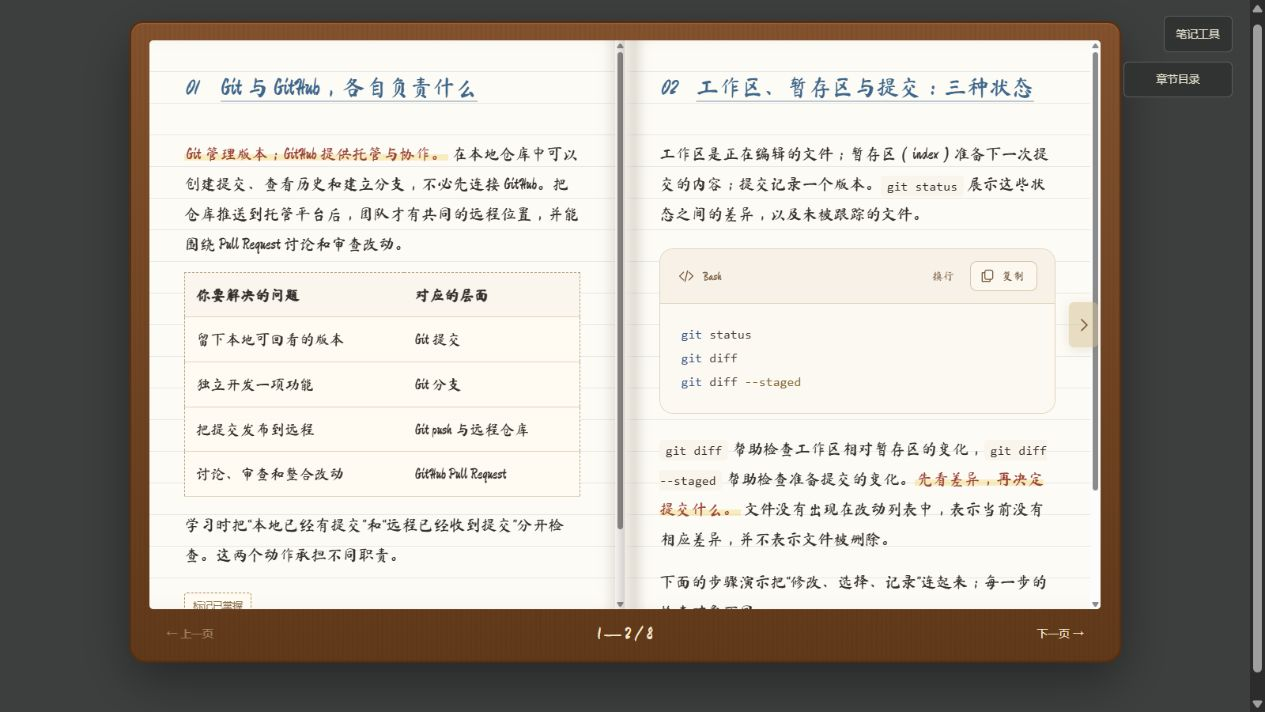
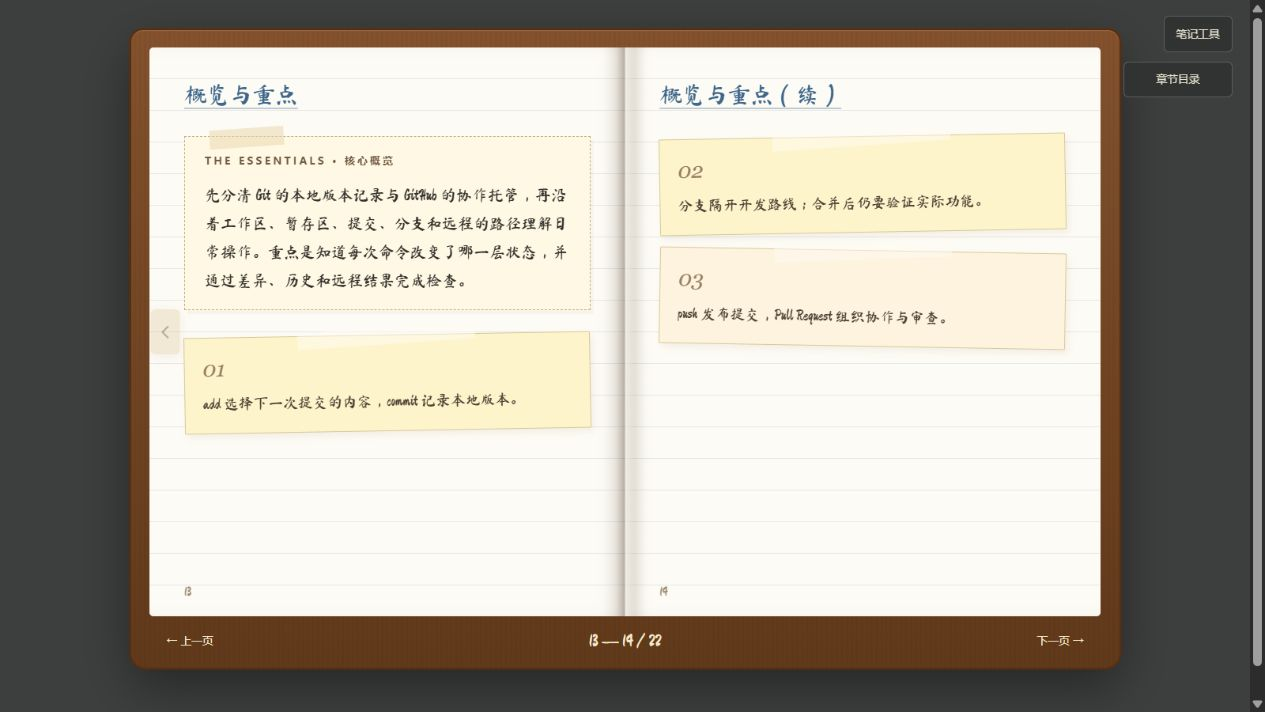
Fix book turn faces and paginate long notebook content

diff --git a/skill/assets/experiences.js b/skill/assets/experiences.js
@@ -13,24 +13,36 @@ mastered=new Set(loadPreference(learningKey,[]).filter(index=>Number.isInteger(i
 const notePanel=document.getElementById('notes'),bookSpread=document.createElement('div');bookSpread.className='book-spread';bookSpread.setAttribute('role','region');bookSpread.setAttribute('aria-label','左右双页笔记书');
 const overviewHome=document.createComment('overview home');overview.before(overviewHome);
 const bookExtra=Array.from(notePanel.children).filter(element=>element.classList.contains('study-widgets')||element.classList.contains('source-list'));
-const bookHomes=[...chapters,...bookExtra].map(element=>{const marker=document.createComment('book content home');element.before(marker);return [element,marker]});
-const appendix=document.createElement('section');appendix.className='book-page book-appendix';appendix.id='book-page-'+(chapters.length+1);const appendixTitle=document.createElement('h2');appendixTitle.textContent='复习与资料';appendix.append(appendixTitle);
-const bookPages=[...chapters,appendix];let summaryPage=appendix;
-if(bookPages.length%2){summaryPage=document.createElement('section');summaryPage.className='book-page book-summary';summaryPage.id='book-page-'+(chapters.length+2);const heading=document.createElement('h2');heading.textContent='本册概览';summaryPage.append(heading);bookPages.push(summaryPage)}
-bookPages.forEach((page,index)=>{page.classList.add('book-page');page.dataset.bookPage=String(index+1);const number=document.createElement('span');number.className='book-page-number';number.textContent=String(index+1);page.append(number)});
+const masteryButtons=[];let bookPages=[],pagination=null,openedBookDetails=[],paginationFrame=0,bookLayoutKey='';
 const bookEdges=['previous','next'].map(direction=>{const button=document.createElement('button');button.type='button';button.className='book-edge book-edge-'+direction;button.setAttribute('aria-label',direction==='next'?'翻到下一组页面':'翻到上一组页面');button.innerHTML='<span class="book-edge-arrow" aria-hidden="true"><svg viewBox="0 0 24 24" fill="none"><path d="'+(direction==='next'?'m9 5 7 7-7 7':'m15 5-7 7 7 7')+'"/></svg></span>';button.addEventListener('click',()=>turnBook(direction==='next'?1:-1));return button});
 let bookMounted=false,overviewBeforeBook=false,bookAnimation=null,bookLayers=[];
 function pagesPerSpread(){return matchMedia('(max-width:700px)').matches?1:2}
 function bookRange(index){const size=pagesPerSpread(),start=Math.floor(index/size)*size;return {start,end:Math.min(start+size,bookPages.length),size}}
-function getFolioReadingChapter(){return Math.max(0,Math.min(folioIndex,chapters.length-1))}
+function getFolioReadingChapter(){return Math.max(0,Math.min(Number(bookPages[folioIndex]?.dataset.chapter)||0,chapters.length-1))}
 function stopBookAnimation(){if(bookAnimation){bookAnimation.cancel();bookAnimation=null}bookLayers.forEach(layer=>layer.remove());bookLayers=[];bookSpread.removeAttribute('aria-busy')}
+function bindBookMath(root){root.querySelectorAll('.arithmatex[data-latex]').forEach(element=>{if(element.dataset.copyBound)return;element.dataset.copyBound='true';element.addEventListener('click',()=>copyFormula(element));element.addEventListener('keydown',event=>{if(event.key==='Enter'||event.key===' '){event.preventDefault();copyFormula(element)}})})}
+function bookDocuments(){
+ const documents=chapters.map((chapter,index)=>({chapter:index,header:chapter.querySelector('header'),sources:Array.from(chapter.children).filter(element=>!element.matches('header,.mastery-button')),footer:masteryButtons[index]}));
+ const last=Math.max(0,chapters.length-1);
+ if(introPieces.length){const heading=document.createElement('h2');heading.textContent='概览与重点';documents.push({chapter:last,header:heading,sources:introPieces})}
+ if(bookExtra.length){const heading=document.createElement('h2');heading.textContent='复习与资料';documents.push({chapter:last,header:heading,sources:bookExtra})}
+ return documents;
+}
+function rebuildBook(){
+ if(!bookMounted||document.body.dataset.view!=='notes'||!bookSpread.clientHeight)return;stopBookAnimation();
+ const anchor=pagination?.starts[folioIndex],focus=getFolioReadingChapter();if(pagination)pagination.restore();bookSpread.replaceChildren();bookPages=[];
+ pagination=paginateNotebookBook(bookSpread,bookDocuments(),{reflow:scheduleBookPagination,bindMath:bindBookMath});bookPages=pagination.pages;
+ if(bookPages.length%2){const page=document.createElement('section');page.className='book-page';page.id='book-page-'+(bookPages.length+1);page.dataset.chapter=String(focus);const body=document.createElement('div');body.className='book-page-body';const title=document.createElement('h2');title.textContent=document.querySelector('h1').textContent;const meta=document.createElement('p');meta.className='book-source-description';meta.textContent=document.querySelector('.meta').textContent;body.append(title,meta);const list=document.createElement('ul');Array.from(new Set([0,Math.floor(chapters.length/2),chapters.length-1])).filter(index=>chapters[index]).forEach(index=>{const item=document.createElement('li'),link=document.createElement('a');link.href='#'+chapters[index].id;link.textContent=chapters[index].querySelector('h2').textContent;link.addEventListener('click',event=>{event.preventDefault();goToChapter(index)});item.append(link);list.append(item)});body.append(list);const footer=document.createElement('footer');footer.className='book-page-footer';footer.textContent=String(bookPages.length+1);page.append(body,footer);bookSpread.append(page);bookPages.push(page)}
+ bookSpread.append(...bookEdges);bookLayoutKey=bookSpread.clientWidth+'x'+bookSpread.clientHeight;
+ let target=pagination.chapterPages.get(focus)||0;if(anchor){pagination.starts.forEach((start,index)=>{if(start&&start.node===anchor.node&&start.offset<=anchor.offset)target=index})}
+ selectBookPage(target,false);currentChapter=-1;queueReading();
+}
+function scheduleBookPagination(){if(!paginationFrame)paginationFrame=requestAnimationFrame(()=>{paginationFrame=0;rebuildBook()})}
 function mountBook(){
- if(bookMounted)return;overviewBeforeBook=overview.open;overview.hidden=false;overview.open=true;summaryPage.append(overview);bookExtra.forEach(element=>appendix.append(element));
- if(!bookExtra.length&&!appendix.querySelector('.book-source-description')){const description=document.createElement('p');description.className='book-source-description';description.textContent=document.querySelector('.meta').textContent;appendix.append(description)}
- bookPages.forEach(page=>page.append(page.querySelector('.book-page-number')));notePanel.prepend(bookSpread);bookSpread.append(...bookPages,...bookEdges);bookMounted=true;
+ if(bookMounted)return;overviewBeforeBook=overview.open;openedBookDetails=bookExtra.flatMap(root=>Array.from(root.querySelectorAll('details'))).map(item=>[item,item.open]);openedBookDetails.forEach(([item])=>{item.open=true});notePanel.prepend(bookSpread);bookMounted=true;rebuildBook();
 }
 function unmountBook(){
- if(!bookMounted)return;stopBookAnimation();bookHomes.forEach(([element,marker])=>marker.after(element));overviewHome.after(overview);overview.open=overviewBeforeBook;bookSpread.remove();bookMounted=false;
+ if(!bookMounted)return;stopBookAnimation();if(pagination)pagination.restore();bookSpread.replaceChildren();overviewHome.after(overview);overview.open=overviewBeforeBook;openedBookDetails.forEach(([item,open])=>{item.open=open});bookSpread.remove();bookPages=[];pagination=null;bookMounted=false;
 }
 function updateBookControls(){
  const range=bookRange(folioIndex),busy=!!bookAnimation,last=range.end>=bookPages.length;
@@ -46,16 +58,17 @@ function animateBookTurn(previousRange,nextRange){
  const oldCopy=pageSnapshot(turning),newCopy=pageSnapshot(reveal);front.append(oldCopy);back.append(newCopy);layer.append(front,back);bookSpread.append(layer);oldCopy.scrollTop=turning.scrollTop;newCopy.scrollTop=reveal.scrollTop;bookLayers.push(layer);
  if(previousRange.size===2){const held=bookPages[forward?previousRange.start:previousRange.end-1],hold=document.createElement('div');hold.className='book-held-page '+(forward?'book-held-left':'book-held-right');hold.setAttribute('aria-hidden','true');hold.setAttribute('inert','');const copy=pageSnapshot(held);hold.append(copy);bookSpread.append(hold);copy.scrollTop=held.scrollTop;bookLayers.push(hold)}
  const duration=previousRange.size===2?720:420,end=previousRange.size===2?(forward?-180:180):(forward?-100:100);
- bookAnimation=layer.animate([{transform:'rotateY(0deg)',filter:'brightness(1)',offset:0},{transform:'rotateY('+(end*.48)+'deg)',filter:'brightness(.82)',offset:.48},{transform:'rotateY('+end+'deg)',filter:'brightness(1)',offset:1}],{duration,easing:'cubic-bezier(.35,.05,.2,1)',fill:'forwards'});
+ bookAnimation=layer.animate([{transform:'rotateY(0deg)',offset:0},{transform:'rotateY('+(end*.48)+'deg)',offset:.48},{transform:'rotateY('+end+'deg)',offset:1}],{duration,easing:'cubic-bezier(.35,.05,.2,1)',fill:'forwards'});
  bookSpread.setAttribute('aria-busy','true');updateBookControls();const running=bookAnimation;running.finished.then(()=>{if(bookAnimation===running){stopBookAnimation();updateBookControls()}},()=>{});
 }
 function updateMastery(){
  const percent=chapters.length?Math.round(mastered.size/chapters.length*100):0;
  document.getElementById('mastery-percent').textContent=percent+'%';document.querySelector('.mastery-orbit').style.setProperty('--mastery',percent+'%');document.getElementById('mastery-count').textContent='已掌握 '+mastered.size+' / '+chapters.length+' 章';document.getElementById('mastery-progress').value=mastered.size;
- chapters.forEach((chapter,index)=>{const button=chapter.querySelector('.mastery-button');button.setAttribute('aria-pressed',String(mastered.has(index)));button.textContent=mastered.has(index)?'已掌握 · 点击撤销':'标记已掌握';routeCards[index].classList.toggle('is-mastered',mastered.has(index))});
+ chapters.forEach((chapter,index)=>{const button=masteryButtons[index];button.setAttribute('aria-pressed',String(mastered.has(index)));button.textContent=mastered.has(index)?'已掌握 · 点击撤销':'标记已掌握';routeCards[index].classList.toggle('is-mastered',mastered.has(index))});
 }
-chapters.forEach((chapter,index)=>{const button=document.createElement('button');button.type='button';button.className='mastery-button';button.setAttribute('aria-label','切换掌握状态：'+chapter.querySelector('h2').textContent);button.addEventListener('click',()=>{mastered.has(index)?mastered.delete(index):mastered.add(index);savePreference(learningKey,Array.from(mastered));updateMastery()});chapter.append(button)});
-function selectFolioChapter(index,animate=true){
+chapters.forEach((chapter,index)=>{const button=document.createElement('button');button.type='button';button.className='mastery-button';button.setAttribute('aria-label','切换掌握状态：'+chapter.querySelector('h2').textContent);button.addEventListener('click',()=>{mastered.has(index)?mastered.delete(index):mastered.add(index);savePreference(learningKey,Array.from(mastered));updateMastery()});chapter.append(button);masteryButtons.push(button)});
+function selectFolioChapter(index,animate=true){selectBookPage(pagination?.chapterPages.get(index)||0,animate)}
+function selectBookPage(index,animate=true){
  const previousRange=bookRange(folioIndex),target=Math.max(0,Math.min(bookPages.length-1,index)),nextRange=bookRange(target),changed=previousRange.start!==nextRange.start;
  stopBookAnimation();folioIndex=target;document.body.dataset.bookLayout=nextRange.size===2?'spread':'single';
  if(animate&&changed&&bookMounted&&document.body.dataset.view==='notes'&&!matchMedia('(prefers-reduced-motion: reduce)').matches)animateBookTurn(previousRange,nextRange);
@@ -64,15 +77,15 @@ function selectFolioChapter(index,animate=true){
 }
 function turnBook(direction){
  if(bookAnimation)return;const range=bookRange(folioIndex),target=direction>0?range.end:range.start-range.size;if(target<0||target>=bookPages.length)return;
- if(target<chapters.length)goToChapter(target,false);else{selectFolioChapter(target);history.replaceState(null,'','#'+bookPages[target].id);currentChapter=-1;queueReading()}
+ selectBookPage(target);history.replaceState(null,'','#'+bookPages[target].id);currentChapter=-1;queueReading();
 }
 function applyReadingStyle(style){
  if(!['paper','atlas','folio'].includes(style))style='paper';document.body.dataset.style=style;stylePicker.value=style;
- if(style!=='folio'){unmountBook();bookPages.forEach(page=>page.removeAttribute('aria-hidden'))}
+ if(bookMounted)unmountBook();
  if(style==='paper'){tabsHome.insertBefore(formatTabs,tabsNext);introPieces.forEach(piece=>overview.before(piece));overview.hidden=true}else{document.getElementById('reader-tools').append(formatTabs);introPieces.forEach(piece=>overview.append(piece));overview.hidden=false}
  closeNotebookTools();
  document.querySelector('.hub-heading .label').textContent=style==='folio'?'MY STUDY JOURNAL':'MY STUDY NOTES';document.querySelector('.hub-heading h2').textContent=style==='folio'?'翻开这一页，继续理解。':'把重点写在纸上。';document.querySelector('.hub-heading p').textContent=style==='folio'?'从目录选一章，或用左右键继续阅读。':chapters.length+' 个章节，保留完整学习内容。';
- if(style==='folio'){mountBook();const index=bookPages.findIndex(page=>'#'+page.id===location.hash);selectFolioChapter(index>=0?index:Math.max(0,currentChapter),false);window.scrollTo({top:0,behavior:'auto'})}
+ if(style==='folio'){mountBook();const index=bookPages.findIndex(page=>'#'+page.id===location.hash),chapter=chapters.findIndex(page=>'#'+page.id===location.hash);if(index>=0)selectBookPage(index,false);else selectFolioChapter(chapter>=0?chapter:Math.max(0,currentChapter),false);window.scrollTo({top:0,behavior:'auto'})}
  currentChapter=-1;queueReading();requestAnimationFrame(updateIndicator);
 }
 stylePicker.addEventListener('change',()=>{applyReadingStyle(stylePicker.value);savePreference(styleKey,stylePicker.value)});
@@ -81,13 +94,13 @@ document.addEventListener('seagull:position',event=>{routeCards.forEach((card,in
 routeCards.forEach((card,index)=>card.addEventListener('click',()=>{activate(document.getElementById('tab-notes'));goToChapter(index)}));
 document.querySelector('[data-folio=previous]').addEventListener('click',()=>turnBook(-1));document.querySelector('[data-folio=next]').addEventListener('click',()=>turnBook(1));
 document.addEventListener('keydown',event=>{if(event.defaultPrevented||event.altKey||event.ctrlKey||event.metaKey||document.body.dataset.style!=='folio'||document.body.dataset.view!=='notes'||event.target.closest('input,textarea,select,pre,dialog,[role=tab]'))return;if(['ArrowLeft','ArrowRight'].includes(event.key)){event.preventDefault();turnBook(event.key==='ArrowRight'?1:-1)}});
-window.addEventListener('resize',()=>{if(bookMounted){selectFolioChapter(folioIndex,false);currentChapter=-1;queueReading()}});document.addEventListener('seagull:view',()=>{stopBookAnimation();if(bookMounted)updateBookControls()});
+new ResizeObserver(()=>{if(bookMounted&&bookSpread.clientHeight&&bookLayoutKey!==bookSpread.clientWidth+'x'+bookSpread.clientHeight)scheduleBookPagination()}).observe(bookSpread);document.fonts.ready.then(()=>{if(bookMounted)scheduleBookPagination()});document.querySelectorAll('#notes img').forEach(image=>image.addEventListener('load',()=>{if(bookMounted)scheduleBookPagination()}));document.addEventListener('click',event=>{if(bookMounted&&event.target.closest('.wrap-code'))scheduleBookPagination()});document.addEventListener('seagull:view',()=>{stopBookAnimation();if(bookMounted&&document.body.dataset.view==='notes')scheduleBookPagination()});
 applyReadingStyle(loadPreference(styleKey,document.body.dataset.style));updateMastery();
 const chapterReveal=new IntersectionObserver(entries=>entries.forEach(entry=>{if(entry.isIntersecting){entry.target.classList.add('is-visible');chapterReveal.unobserve(entry.target)}}),{threshold:.08});chapters.forEach(chapter=>chapterReveal.observe(chapter));
 document.querySelectorAll('.explorer').forEach(explorer=>{
  const buttons=Array.from(explorer.querySelectorAll('[data-step]')),panels=Array.from(explorer.querySelectorAll('.explore-panel')),play=explorer.querySelector('.explore-play');let selected=0,timer=null;
  function stop(){clearInterval(timer);timer=null;play.textContent='自动演示';play.setAttribute('aria-pressed','false')}
- function select(index){selected=(index+buttons.length)%buttons.length;buttons.forEach((button,position)=>{button.setAttribute('aria-selected',String(position===selected));button.tabIndex=position===selected?0:-1});panels.forEach((panel,position)=>{panel.hidden=position!==selected});explorer.querySelector('progress').value=selected+1}
+ function select(index){selected=(index+buttons.length)%buttons.length;buttons.forEach((button,position)=>{button.setAttribute('aria-selected',String(position===selected));button.tabIndex=position===selected?0:-1});panels.forEach((panel,position)=>{panel.hidden=position!==selected});explorer.querySelector('progress').value=selected+1;if(bookMounted)scheduleBookPagination()}
  buttons.forEach((button,index)=>{button.addEventListener('click',()=>{stop();select(index)});button.addEventListener('keydown',event=>{if(['ArrowLeft','ArrowRight','Home','End'].includes(event.key)){event.preventDefault();stop();select(event.key==='Home'?0:event.key==='End'?buttons.length-1:index+(event.key==='ArrowRight'?1:-1));buttons[selected].focus()}})});
  play.addEventListener('click',()=>{if(timer){stop();return}play.textContent='暂停演示';play.setAttribute('aria-pressed','true');timer=setInterval(()=>{select(selected+1);if(selected===buttons.length-1)stop()},1800)});
  document.addEventListener('seagull:view',event=>{if(event.detail!=='notes')stop()});document.addEventListener('visibilitychange',()=>{if(document.hidden)stop()});

diff --git a/skill/assets/book-pagination.js b/skill/assets/book-pagination.js
@@ -1,0 +1,114 @@
+// Move original note blocks into measured pages; restore them when leaving the book.
+function paginateNotebookBook(spread,documents,options){
+ const pages=[],homes=[],paragraphs=[],chapterPages=new Map(),starts=[],moved=new Set(),imageHeights=new Map();let current=null,contexts=new Map();
+ const width=spread.clientWidth/(matchMedia('(max-width:700px)').matches?1:2),height=spread.clientHeight;
+ function remember(node){if(moved.has(node))return;const marker=document.createComment('paged block home');node.before(marker);homes.push([node,marker]);moved.add(node)}
+ function newPage(doc){
+  const page=document.createElement('section');page.className='book-page folio-visible book-measure-page';page.id='book-page-'+(pages.length+1);page.dataset.bookPage=String(pages.length+1);page.dataset.chapter=String(doc.chapter);
+  page.style.cssText='position:absolute;left:0;top:0;width:'+width+'px;height:'+height+'px;visibility:hidden';
+  const body=document.createElement('div');body.className='book-page-body';page.append(body);
+  const header=doc.header.cloneNode(true);header.removeAttribute('id');header.querySelectorAll('[id]').forEach(element=>element.removeAttribute('id'));
+  if(pages.some(item=>item.document===doc)){const title=header.querySelector('h2')||header;title.append(document.createTextNode('（续）'))}body.append(header);
+  const footer=document.createElement('footer');footer.className='book-page-footer';const number=document.createElement('span');number.className='book-page-number';number.textContent=String(pages.length+1);footer.append(number);page.append(footer);spread.append(page);
+  current={page,body,footer,document:doc,blocks:0,start:null};contexts=new Map();pages.push(current);if(!chapterPages.has(doc.chapter))chapterPages.set(doc.chapter,pages.length-1);return current;
+ }
+ function available(){const css=getComputedStyle(current.page);return current.page.clientHeight-parseFloat(css.paddingTop)-parseFloat(css.paddingBottom)-58}
+ function fits(){return current.body.scrollHeight<=available()+1}
+ function target(block){
+  if(!block.context)return current.body;
+  if(!contexts.has(block.context)){const wrapper=block.wrapper();current.body.append(wrapper.outer);contexts.set(block.context,wrapper)}
+  return contexts.get(block.context).target;
+ }
+ function append(block,node,offset=0){target(block).append(node);if(!current.start)current.start={node:block.origin||block.node,offset};current.blocks++;return node}
+ function trial(block,node){const host=target(block);host.append(node);const result=fits();node.remove();if(!result&&block.context&&!host.childElementCount&&!host.textContent.trim()){contexts.get(block.context).outer.remove();contexts.delete(block.context)}return result}
+ function plainWrapper(source){return ()=>{const wrapper=source.cloneNode(false);wrapper.removeAttribute('id');return {outer:wrapper,target:wrapper}}}
+ function proseWrapper(source,inner){return ()=>{const prose=source.cloneNode(false);prose.removeAttribute('id');if(!inner)return {outer:prose,target:prose};const nested=inner.cloneNode(false);nested.removeAttribute('id');prose.append(nested);return {outer:prose,target:nested}}}
+ function blocksOf(source,context=null,wrapper=null){
+  const result=[];
+  function add(node,group=context,factory=wrapper){result.push({node,origin:node,context:group,wrapper:factory})}
+  if(source.matches('.prose')){
+   Array.from(source.children).forEach(node=>{
+    if(node.matches('ul,ol'))Array.from(node.children).forEach((item,index)=>add(item,node,()=>{const made=proseWrapper(source,node)();if(node.tagName==='OL')made.target.start=(Number(node.getAttribute('start'))||1)+index;return made}));
+    else if(node.matches('table')){
+     const rows=Array.from(node.querySelectorAll('tbody>tr'));if(!rows.length){add(node,source,proseWrapper(source));return}
+     rows.forEach(row=>add(row,node,()=>{const prose=source.cloneNode(false),table=node.cloneNode(false),body=document.createElement('tbody');prose.removeAttribute('id');table.removeAttribute('id');Array.from(node.children).filter(child=>child.matches('caption,colgroup,thead')).forEach(child=>{const copy=child.cloneNode(true);copy.querySelectorAll('.arithmatex').forEach(math=>delete math.dataset.copyBound);table.append(copy)});table.append(body);prose.append(table);return {outer:prose,target:body}}));
+    }else add(node,source,proseWrapper(source));
+   });
+  }else if(source.matches('.takeaways,.review-deck,.extension-deck')){
+   Array.from(source.children).filter(node=>!node.matches('.label,h3')).forEach(node=>{
+    if(node.matches('details')&&node.querySelector('.prose')){const answer=node.querySelector('.prose');Array.from(answer.children).forEach(part=>add(part,node,()=>{const outer=source.cloneNode(false);Array.from(source.children).filter(child=>child.matches('.label,h3')).forEach(child=>outer.append(child.cloneNode(true)));const question=document.createElement('h4');question.className='book-question';question.textContent=node.querySelector('summary').textContent;const prose=answer.cloneNode(false);outer.append(question,prose);return {outer,target:prose}}))}
+    else add(node,source,()=>{const outer=source.cloneNode(false);Array.from(source.children).filter(child=>child.matches('.label,h3')).forEach(child=>outer.append(child.cloneNode(true)));return {outer,target:outer}});
+   });
+  }else if(source.matches('.source-list'))Array.from(source.children).forEach(node=>add(node,source,plainWrapper(source)));
+  else if(source.matches('.study-widgets'))Array.from(source.children).forEach(node=>result.push(...blocksOf(node)));
+  else add(source);
+  return result;
+ }
+ function textPositions(root,protectInline){
+  const points=[];
+  function walk(node){
+   if(node.nodeType===Node.TEXT_NODE){if(protectInline){let offset=0;for(const letter of node.textContent){offset+=letter.length;points.push({node,offset})}}else for(let offset=1;offset<=node.textContent.length;offset++)points.push({node,offset})}
+   else if(node.nodeType===Node.ELEMENT_NODE){
+    if(protectInline&&node!==root&&node.matches('.arithmatex,code,a,img,svg')){const index=Array.from(node.parentNode.childNodes).indexOf(node);points.push({node:node.parentNode,offset:index+1})}
+    else Array.from(node.childNodes).forEach(walk);
+   }
+  }walk(root);return points;
+ }
+ function bestPrefix(block,source,points){
+  let low=1,high=points.length,best=0;
+  while(low<=high){const middle=Math.floor((low+high)/2),range=document.createRange();range.setStart(source,0);range.setEnd(points[middle-1].node,points[middle-1].offset);const copy=source.cloneNode(false);copy.removeAttribute('id');copy.append(range.cloneContents());if(trial(block,copy)){best=middle;low=middle+1}else high=middle-1}
+  return best;
+ }
+ function splitParagraph(block,doc){
+  const source=block.node,parts=[];paragraphs.push([source,parts]);let consumed=0;
+  while(source.childNodes.length){
+   const points=textPositions(source,true);if(!points.length)break;
+   let count=bestPrefix(block,source,points);
+   if(!count){if(current.blocks){newPage(doc);continue}count=1}
+   if(count<points.length){for(let boundary=count;boundary>Math.max(0,count-40);boundary--){const point=points[boundary-1];if(point.node.nodeType===Node.TEXT_NODE&&/[。！？；\n]/.test(point.node.textContent[point.offset-1])){count=boundary;break}}}
+   const range=document.createRange();range.setStart(source,0);range.setEnd(points[count-1].node,points[count-1].offset);
+   const part=source.cloneNode(false);part.removeAttribute('id');part.append(range.extractContents());parts.push(part);append(block,part,consumed);consumed+=count;
+   if(source.textContent.trim())newPage(doc);else{if(source.childNodes.length){const rest=source.cloneNode(false);rest.append(...Array.from(source.childNodes));parts.push(rest);append(block,rest,consumed)}break}
+  }
+ }
+ function codePart(source,start,end){
+  const original=source.querySelector('code'),positions=textPositions(original,false),range=document.createRange();range.setStart(original,0);
+  if(start)range.setStart(positions[start-1].node,positions[start-1].offset);if(end)range.setEnd(positions[end-1].node,positions[end-1].offset);else range.setEnd(original,0);
+  const piece=source.cloneNode(true);piece.removeAttribute('id');piece.querySelectorAll('[id]').forEach(element=>element.removeAttribute('id'));piece.querySelector('code').replaceChildren(range.cloneContents());return piece;
+ }
+ function bindCodePart(piece,source){
+  const copy=piece.querySelector('.copy-code'),wrap=piece.querySelector('.wrap-code'),full=source.querySelector('code').textContent;copy.querySelector('span').textContent='复制整段';copy.setAttribute('aria-label',source.querySelector('.copy-code').getAttribute('aria-label')+'（完整）');
+  copy.addEventListener('click',async()=>{if(await copyText(full,'已复制完整代码','复制失败，请在 Markdown 中复制')){copy.querySelector('span').textContent='已复制';setTimeout(()=>{copy.querySelector('span').textContent='复制整段'},1800)}});
+  wrap.addEventListener('click',()=>{source.querySelector('.wrap-code').click();options.reflow()});
+ }
+ function splitCode(block,doc){
+  const source=block.node,full=source.querySelector('code').textContent,ends=[];let position=0;
+  full.split(/(?<=\n)/).filter(line=>line.length).forEach(line=>{position+=line.length;ends.push(position)});let first=0;
+  while(first<ends.length){
+   let low=first+1,high=ends.length,best=first;
+   while(low<=high){const middle=Math.floor((low+high)/2),piece=codePart(source,first?ends[first-1]:0,ends[middle-1]);if(trial(block,piece)){best=middle;low=middle+1}else high=middle-1}
+   if(best===first){if(current.blocks){newPage(doc);continue}best=first+1}
+   const piece=codePart(source,first?ends[first-1]:0,ends[best-1]);bindCodePart(piece,source);append(block,piece,first?ends[first-1]:0);first=best;if(first<ends.length)newPage(doc);
+  }
+ }
+ function sizeImage(node){const image=node.matches('figure')?node.querySelector('img'):null;if(image){if(!imageHeights.has(image))imageHeights.set(image,image.style.maxHeight);image.style.maxHeight=Math.max(80,available()-current.body.scrollHeight-48)+'px'}}
+ documents.forEach(doc=>{
+  newPage(doc);const blocks=doc.sources.flatMap(source=>blocksOf(source));
+  blocks.forEach(block=>{
+   const node=block.node;sizeImage(node);const copy=node.cloneNode(true);
+   if(!trial(block,copy)&&current.blocks)newPage(doc);
+   sizeImage(node);
+   if(trial(block,node.cloneNode(true))){remember(node);append(block,node)}
+   else if(node.tagName==='P')splitParagraph(block,doc);
+   else if(node.matches('.code-block'))splitCode(block,doc);
+   else{remember(node);append(block,node);if(!fits()){node.classList.add('book-atomic-overflow');node.style.maxHeight=Math.max(90,available()-current.body.scrollHeight+node.getBoundingClientRect().height)+'px'}}
+  });
+  if(doc.footer){remember(doc.footer);current.footer.prepend(doc.footer)}
+ });
+ pages.forEach((item,index)=>{item.page.classList.remove('book-measure-page','folio-visible');item.page.removeAttribute('style');starts.push(item.start);item.page.dataset.bookPage=String(index+1);options.bindMath(item.page)});
+ return {pages:pages.map(item=>item.page),chapterPages,starts,restore(){
+  paragraphs.forEach(([source,parts])=>source.replaceChildren(...parts.flatMap(part=>Array.from(part.childNodes)),...Array.from(source.childNodes)));
+  homes.forEach(([node,marker])=>{node.classList.remove('book-atomic-overflow');node.style.removeProperty('max-height');marker.after(node);marker.remove()});pages.forEach(item=>item.page.remove());
+  imageHeights.forEach((value,image)=>{image.style.maxHeight=value});
+ }};
+}

diff --git a/skill/assets/experiences.css b/skill/assets/experiences.css
@@ -90,7 +90,7 @@ body[data-style=atlas] .reader-controls button,body[data-style=atlas] .chapter-p
 body[data-style=atlas] .toc a.active{background:#f4e6bc;color:#9f4135;box-shadow:inset 3px 0 #be8060}
 body[data-style=atlas] footer{border-top:1px dashed #c9b794;padding-top:16px}
 
-/* Style B: leather cover, metal rings, lined paper and one full chapter per page. */
+/* Style B: leather cover, metal rings and measured ruled pages. */
 body[data-style=folio] .workspace>main{display:grid;grid-template-rows:minmax(0,1fr) auto;height:min(740px,calc(100dvh - 75px));min-height:440px;background:#8b4513;background-image:repeating-linear-gradient(90deg,transparent,transparent 2px,#0000000a 2px,#0000000a 4px),linear-gradient(180deg,#8b4513,#733b16);border-radius:10px 14px 14px 10px;padding:20px 19px 12px 35px;box-shadow:0 0 0 2px #5c2e0b,0 20px 50px #0006,inset 0 1px 0 #ffffff20;perspective:1600px}
 body[data-style=folio] .workspace>main:before{content:"";position:absolute;left:9px;top:36px;bottom:32px;width:32px;background:radial-gradient(ellipse 12px 7px at 16px 20px,#87847e 20%,#ddd9d0 55%,#99968f 70%,transparent 74%),linear-gradient(90deg,transparent 11px,#c5c2ba 11px,#88847c 18px,transparent 18px);background-size:32px 82px;pointer-events:none;z-index:3;border-radius:6px}
 body[data-style=folio] .note-head{position:absolute;width:1px;height:1px;padding:0;margin:0;overflow:hidden;clip-path:inset(50%)}
@@ -157,7 +157,14 @@ body[data-style=folio][data-view=notes] .workspace>main:before,body[data-style=f
 body[data-style=folio] #notes{padding:0;background:none;overflow:hidden;box-shadow:none;border-radius:4px;isolation:isolate}
 .book-spread{position:relative;display:grid;grid-template-columns:repeat(2,minmax(0,1fr));width:100%;height:100%;perspective:2200px;isolation:isolate}
 .book-spread:before{content:"";position:absolute;left:calc(50% - 23px);top:0;bottom:0;width:46px;background:linear-gradient(90deg,transparent,#69583e13 30%,#49332038 49%,#fffdf5aa 51%,#69583e15 73%,transparent);z-index:8;pointer-events:none}
-body[data-style=folio] .book-page{position:relative;height:100%;min-height:0;min-width:0;overflow:auto;overscroll-behavior:contain;scrollbar-width:thin;padding:30px 35px 20px;border:0;margin:0;background:#fdfbf5;background-image:repeating-linear-gradient(transparent,transparent 31px,#a4b0be44 31px,#a4b0be44 32px);border-radius:4px 0 0 4px;box-shadow:inset -15px 0 22px -18px #4b372899}
+body[data-style=folio] .book-page{position:relative;height:100%;min-height:0;min-width:0;overflow:hidden;padding:30px 35px 20px;border:0;margin:0;background:#fdfbf5;background-image:repeating-linear-gradient(transparent,transparent 31px,#a4b0be44 31px,#a4b0be44 32px);border-radius:4px 0 0 4px;box-shadow:inset -15px 0 22px -18px #4b372899}
+body[data-style=folio] #notes>.chapter,body[data-style=folio] #notes>.book-overview,body[data-style=folio] #notes>.study-widgets,body[data-style=folio] #notes>.source-list{display:none}
+body[data-style=folio] .book-page-body{min-width:0}
+body[data-style=folio] .book-page-body>header{display:flex;align-items:baseline;gap:9px;margin-bottom:12px}
+body[data-style=folio] .book-page-footer{display:flex;align-items:center;justify-content:space-between;position:absolute;bottom:10px;left:35px;right:35px;margin:0;padding:0;min-height:30px;color:#a18e75;font-size:11px;letter-spacing:0}
+body[data-style=folio] .book-page-footer .book-page-number{margin:0;padding:0;font-size:13px}
+body[data-style=folio] .book-page-footer .mastery-button{margin:0}
+.book-atomic-overflow{overflow:auto}.book-question{font:19px/1.7 SeagullHand,cursive;color:#38678b;margin:10px 0}
 body[data-style=folio] .book-page.book-right{border-radius:0 4px 4px 0;box-shadow:inset 15px 0 22px -18px #4b372899}
 body[data-style=folio] .book-page:not(.folio-visible){display:none}
 body[data-style=folio] .book-page h2{font:23px/1.5 SeagullHand,cursive;color:#38678b;text-decoration:underline;text-decoration-color:#38678b55;text-underline-offset:5px;margin:0 0 14px}
@@ -176,7 +183,7 @@ body[data-style=folio] .book-source-description{font:16px/1.9 SeagullHand,cursiv
 .book-turn-leaf,.book-held-page{position:absolute;top:0;bottom:0;width:50%;pointer-events:none}
 .book-turn-leaf{z-index:20;transform-style:preserve-3d;will-change:transform;box-shadow:0 4px 20px #39261335}
 .turn-forward{left:50%;transform-origin:left center}.turn-backward{left:0;transform-origin:right center}
-.book-turn-face{position:absolute;inset:0;backface-visibility:hidden;overflow:hidden;background:#fdfbf5}
+.book-turn-face{position:absolute;inset:0;-webkit-backface-visibility:hidden;backface-visibility:hidden;overflow:hidden;background:#fdfbf5}
 .book-turn-face:after{content:"";position:absolute;inset:0;background:linear-gradient(90deg,#7b654322,transparent 35%,#f7f0d91f 70%,#7b65430b);pointer-events:none}
 .book-turn-back{transform:rotateY(180deg)}.book-held-page{z-index:10;overflow:hidden}.book-held-left{left:0}.book-held-right{left:50%}
 @media(max-width:700px){
@@ -184,6 +191,7 @@ body[data-style=folio] .book-source-description{font:16px/1.9 SeagullHand,cursiv
  .book-spread{grid-template-columns:minmax(0,1fr)}.book-spread:before{display:none}
  body[data-style=folio] .book-page{padding:24px 38px 18px;border-radius:3px;box-shadow:inset 3px 0 8px #76532a10}
  body[data-style=folio] .book-page h2{font-size:21px}
+ body[data-style=folio] .book-page-footer{left:38px;right:38px}
  .book-turn-leaf{width:100%}.turn-forward{left:0;transform-origin:left center}.turn-backward{left:0;transform-origin:right center}
  .book-edge{width:38px}
 }
@@ -200,6 +208,8 @@ body[data-style=folio] .book-source-description{font:16px/1.9 SeagullHand,cursiv
  body[data-style=folio] #notes{height:auto;overflow:visible;box-shadow:none;padding:0;background:white}
  .book-spread{display:block;height:auto;perspective:none}.book-spread:before{display:none}
  body[data-style=folio] .book-page{display:block!important;height:auto;overflow:visible;box-shadow:none;padding:18px 0;margin-bottom:25px;background:white;break-inside:auto}
+ body[data-style=folio] #notes>.chapter{display:none!important}
+ body[data-style=folio] .book-page-footer{position:static;padding-top:12px}.book-atomic-overflow{max-height:none!important;overflow:visible}
  #notes>.book-overview{display:block!important}#notes>.book-overview>summary{display:none}
  .explore-panel[hidden]{display:block!important}.review-card .prose,.extension-card .prose{display:block!important}.explore-steps{flex-wrap:wrap}.explorer,.review-deck,.extension-deck{break-inside:auto}
  body:is([data-style=atlas],[data-style=folio]) .takeaway{transform:none;box-shadow:none}

diff --git a/skill/assets/notebook.html b/skill/assets/notebook.html
@@ -139,7 +139,7 @@ if(window.katex){document.querySelectorAll('.arithmatex').forEach(element=>{
  const wrapped=element.textContent.trim(),latex=wrapped.slice(2,-2).trim(),display=element.tagName==='DIV';
  try{katex.render(latex,element,{displayMode:display,throwOnError:true,trust:false,strict:'warn',maxExpand:1000})}
  catch(error){element.classList.add('math-error');element.title='LaTeX 格式错误，请检查源码';return}
- element.dataset.latex=latex;element.setAttribute('role','button');element.tabIndex=0;element.title='单击复制 LaTeX 公式';element.setAttribute('aria-label','复制 LaTeX 公式：'+latex);
+ element.dataset.latex=latex;element.dataset.copyBound='true';element.setAttribute('role','button');element.tabIndex=0;element.title='单击复制 LaTeX 公式';element.setAttribute('aria-label','复制 LaTeX 公式：'+latex);
  element.addEventListener('click',()=>copyFormula(element));element.addEventListener('keydown',event=>{if(event.key==='Enter'||event.key===' '){event.preventDefault();copyFormula(element)}});
 })}
 $experience_js

diff --git a/skill/scripts/notebook.py b/skill/scripts/notebook.py
@@ -258,7 +258,7 @@ def render_note(note: dict, base: Path, library_href: str | None = None, obsidia
         style=style, note_id=html.escape(note_id or title, quote=True),
         experience_css=(assets / "experiences.css").read_text(encoding="utf-8"),
         handwriting_assets=handwriting_assets,
-        experience_js=(assets / "experiences.js").read_text(encoding="utf-8"),
+        experience_js=(assets / "book-pagination.js").read_text(encoding="utf-8") + "\n" + (assets / "experiences.js").read_text(encoding="utf-8"),
         route=route, widgets=widgets,
         math_css=math_css, math_js=math_js, code_css=code_css,
         library_action=f'<a class="library-link" href="{html.escape(library_href, quote=True)}"><svg viewBox="0 0 24 24" aria-hidden="true"><path d="M3 7h7l2-3h9v16H3V7z"/></svg>笔记夹</a>' if library_href else "",

diff --git a/skill/references/materials-and-styles.md b/skill/references/materials-and-styles.md
@@ -40,7 +40,7 @@
 | --- | --- | --- |
 | paper／米色纸页 | 连续图文阅读、淡米色框、经典目录 | 视频精读、普通图文笔记 |
 | atlas／学霸笔记本 | 米黄横线纸、螺旋装订、中文手写、便签高亮、写入动画 | 知识体系、课程与技术笔记 |
-| folio／手账皮革本 | 皮革封套、金属环装订、单章横线书页、左右键与翻页 | 文章、研究记录、长篇叙事 |
+| folio／手账皮革本 | 皮革封套、左右双页、长内容自动续页、左右键与翻页 | 文章、研究记录、长篇叙事 |
 
 新风格共用真实完整正文，不靠截断文字实现翻页。已掌握状态由用户主动标记，不因浏览过章节就自动判定掌握；状态只在浏览器本地保存。步骤的自动演示由用户点击触发，离开笔记视图时暂停。减少动态效果的系统偏好应关闭非必要动画。
 
@@ -48,4 +48,4 @@
 
 两套新风格现改编自 [note-skill](https://github.com/Unclecheng-li/note-skill) 的学霸笔记本与手账皮革本，替换旧知识图谱和叙事卷册。保留上游 MIT 许可，离线中文手写字体保留 OFL，见 [资源出处](../assets/handwritten/SOURCE.md)。长章节不裁切、不压缩正文；原有代码／公式复制、目录、脑图与笔记夹功能沿用。
 
-两套纸本居中放在深灰桌面上，采用紧凑的标题与正文字号。右侧“笔记工具”保留笔记夹、风格、格式、来源与打印，“章节目录”展开搜索和跳转；切回纸页时还原顶部工具与侧栏。皮革本的左右页各有真实笔记内容，章节按页展示，概览、配图、复习与资料收在附页。外侧页边靠近时出现箭头，点击或左右键翻动整组页面；正反纸页、书脊与阴影组成翻页动画，减少动态效果时直接切换。长内容在各自纸页内滚动，打印包含全文与附页。700px 以下单页展示，使用同一套完整内容。
+两套纸本居中放在深灰桌面上，采用紧凑的标题与正文字号。右侧“笔记工具”保留笔记夹、风格、格式、来源与打印，“章节目录”展开搜索和跳转；切回纸页时还原顶部工具与侧栏。皮革本的左右页各有真实笔记内容，按实际可用高度分页，长章节、段落、列表、表格与复习答案自动续到后面的书页，概览、配图、复习与资料收在附页。长代码按行分段，每段复制按钮仍复制完整原始代码。外侧页边靠近时出现箭头，点击或左右键翻动整组页面；正反纸页、书脊与阴影组成翻页动画，转过书脊后文字保持正向。减少动态效果时直接切换。改变窗口宽高后重新分页并保持阅读位置，打印包含全文与附页。700px 以下单页展示，使用同一套完整内容。不可拆分的超高交互组件保留局部滚动，不裁切信息。

diff --git a/README.md b/README.md
@@ -58,7 +58,7 @@ python skill/scripts/notebook.py note.json --style atlas
 
 ![Facing pages in Leather Journal](examples/open-book-preview.jpg)
 
-Topic, text, and article notes default to Study Notebook; existing video and local-media notebooks retain Paper. The two replicas center compact handwritten pages on a charcoal desk, with tools and chapter navigation in popovers. Study Notebook scrolls continuously. Leather Journal displays two facing chapter pages, turns spreads from the outer edges, and keeps long content scrollable within each page. Overview, illustrations, reviews and references remain in appendix pages. Below 700px it uses a single page; reduced-motion preferences skip the turn animation. Every style keeps complete content, code/formula copying, mind maps and print support. Printing includes all chapters and appendices. Mastery marks and style preferences are stored locally. The existing `atlas` and `folio` values select the two replacement styles.
+Topic, text, and article notes default to Study Notebook; existing video and local-media notebooks retain Paper. The two replicas center compact handwritten pages on a charcoal desk, with tools and chapter navigation in popovers. Study Notebook scrolls continuously. Leather Journal measures the available page space and continues long chapters, paragraphs, lists, tables and review answers across as many facing pages as needed. Long code blocks span pages; each copy button still copies the complete original block. Overview, illustrations, reviews and references remain in appendix pages. Resizing recalculates pagination and preserves the reading position. Below 700px it uses a single page; reduced-motion preferences skip the turn animation. Every style keeps complete content, code/formula copying, mind maps and print support. Printing includes all chapters and appendices. Mastery marks and style preferences are stored locally. The existing `atlas` and `folio` values select the two replacement styles.
 
 The shelf filters notes by source type and searches titles, summaries, and tags. `explorers`, `review`, and `extensions` add interactive learning components; see [the material and style guide](skill/references/materials-and-styles.md). Obsidian remains an optional export; the web notebook is the primary experience for the new styles.
 

diff --git a/README_CN.md b/README_CN.md
@@ -32,7 +32,7 @@ python skill/scripts/notebook.py note.json --style atlas
 
 ![皮革本左右双页预览](examples/open-book-preview.jpg)
 
-主题、文本、网页默认使用学霸笔记本；已有视频和本地笔记保留米色纸页。工具与目录通过按钮展开。学霸本连续滚动，皮革本同时显示左右两页笔记，点击外侧页边或左右键翻动整组页面，长章节在各自纸页内滚动；概览、配图、复习与资料保留在附页。700px 以下单页阅读，减少动态效果时直接切换。三种风格保留完整正文、代码与公式复制、脑图、目录和打印，打印包含全部章节及附页。风格和掌握状态保存在本地浏览器。原有 `atlas/folio` 参数继续有效。
+主题、文本、网页默认使用学霸笔记本；已有视频和本地笔记保留米色纸页。工具与目录通过按钮展开。学霸本连续滚动，皮革本同时显示左右两页笔记，点击外侧页边或左右键翻动整组页面。根据实际版面自动续页，长章节、段落、列表、表格和复习答案可以跨很多页；长代码分段展示，每页仍能复制整段源码。概览、配图、复习与资料保留在附页。调整窗口时重新分页并保留阅读位置；700px 以下单页阅读，减少动态效果时直接切换。三种风格保留完整正文、代码与公式复制、脑图、目录和打印，打印包含全部章节及附页。风格和掌握状态保存在本地浏览器。原有 `atlas/folio` 参数继续有效。
 
 笔记夹支持来源类别筛选，以及标题、摘要和标签搜索。`explorers/review/extensions` 支持互动步骤、自测卡与拓展阅读，见 [通用材料与风格](skill/references/materials-and-styles.md)。新风格以网页笔记为主要体验，Obsidian 保留为可选导出。
 

diff --git a/skill/assets/handwritten/SOURCE.md b/skill/assets/handwritten/SOURCE.md
@@ -10,9 +10,10 @@ adapted from UncleCheng's MIT-licensed **note-skill** templates:
 
 Seagull Notes keeps its own source ingestion, full note body, shelf, navigation,
 code/formula copying and accessible interactions. Study pages scroll continuously;
-long journal chapters scroll within two facing pages without cutting content.
+long journal chapters and review answers continue across measured facing pages.
 The open-book spread, page-edge hover controls, front/back paper-turn animation,
-appendix pages and single-page mobile reading are Seagull Notes implementations.
+automatic pagination, complete code copying across fragments, appendix pages
+and single-page mobile reading are Seagull Notes implementations.
 Both replicas use a charcoal desk, centered pages and compact tool/directory
 popovers as requested in the supplied screenshots. Paper remains the existing reader.
 The legacy `atlas` / `folio` values now select Study Notebook / Leather Journal.
